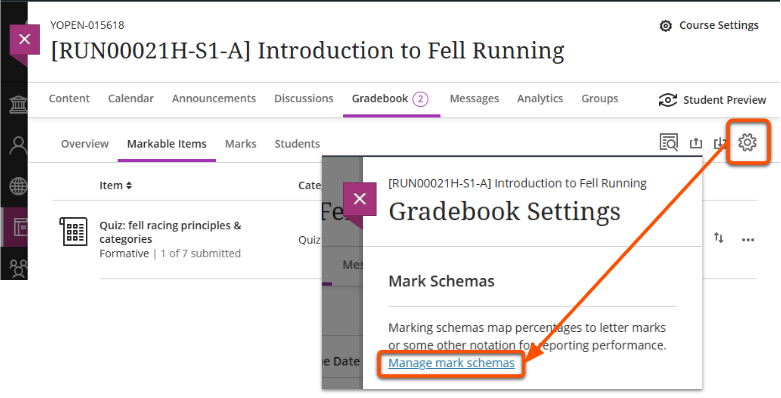
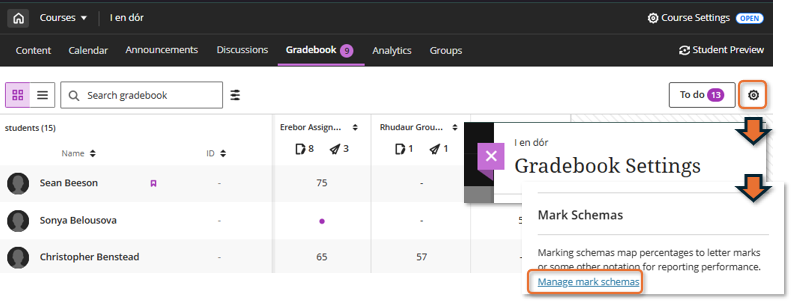
4002.1 - update Mark schema screenshot

diff --git a/docs/ultra/mark-schema.md b/docs/ultra/mark-schema.md
@@ -82,8 +82,8 @@ So if this mark schema is applied to an assessment, a raw score of 55% is displa
 
 Set up and edit Mark Schemas in the Gradebook.
 
-1. Open the **Gradebook** tab in the top navigation bar in the site. Any tab within the Gradebook is fine.
-2. Click the **Settings (cog) icon** in the top right of the Gradebook, then click **Manage mark schemas** on the overlaid Settings menu.
+1. Open the **Gradebook** , then click the **cog icon** in the top right to open the course-level *Gradebook settings panel*.
+2. Scroll down to the *Mark Schemas* setting and click **Manage mark schemas**.
 </br>![decorative](images/mark-schema-access-mark-schemas.png)
 3. The Mark Schemas page lists all the site's mark schemas.
     - To add a new mark schema: click the **Plus icon**, then enter a name and click **Add**
